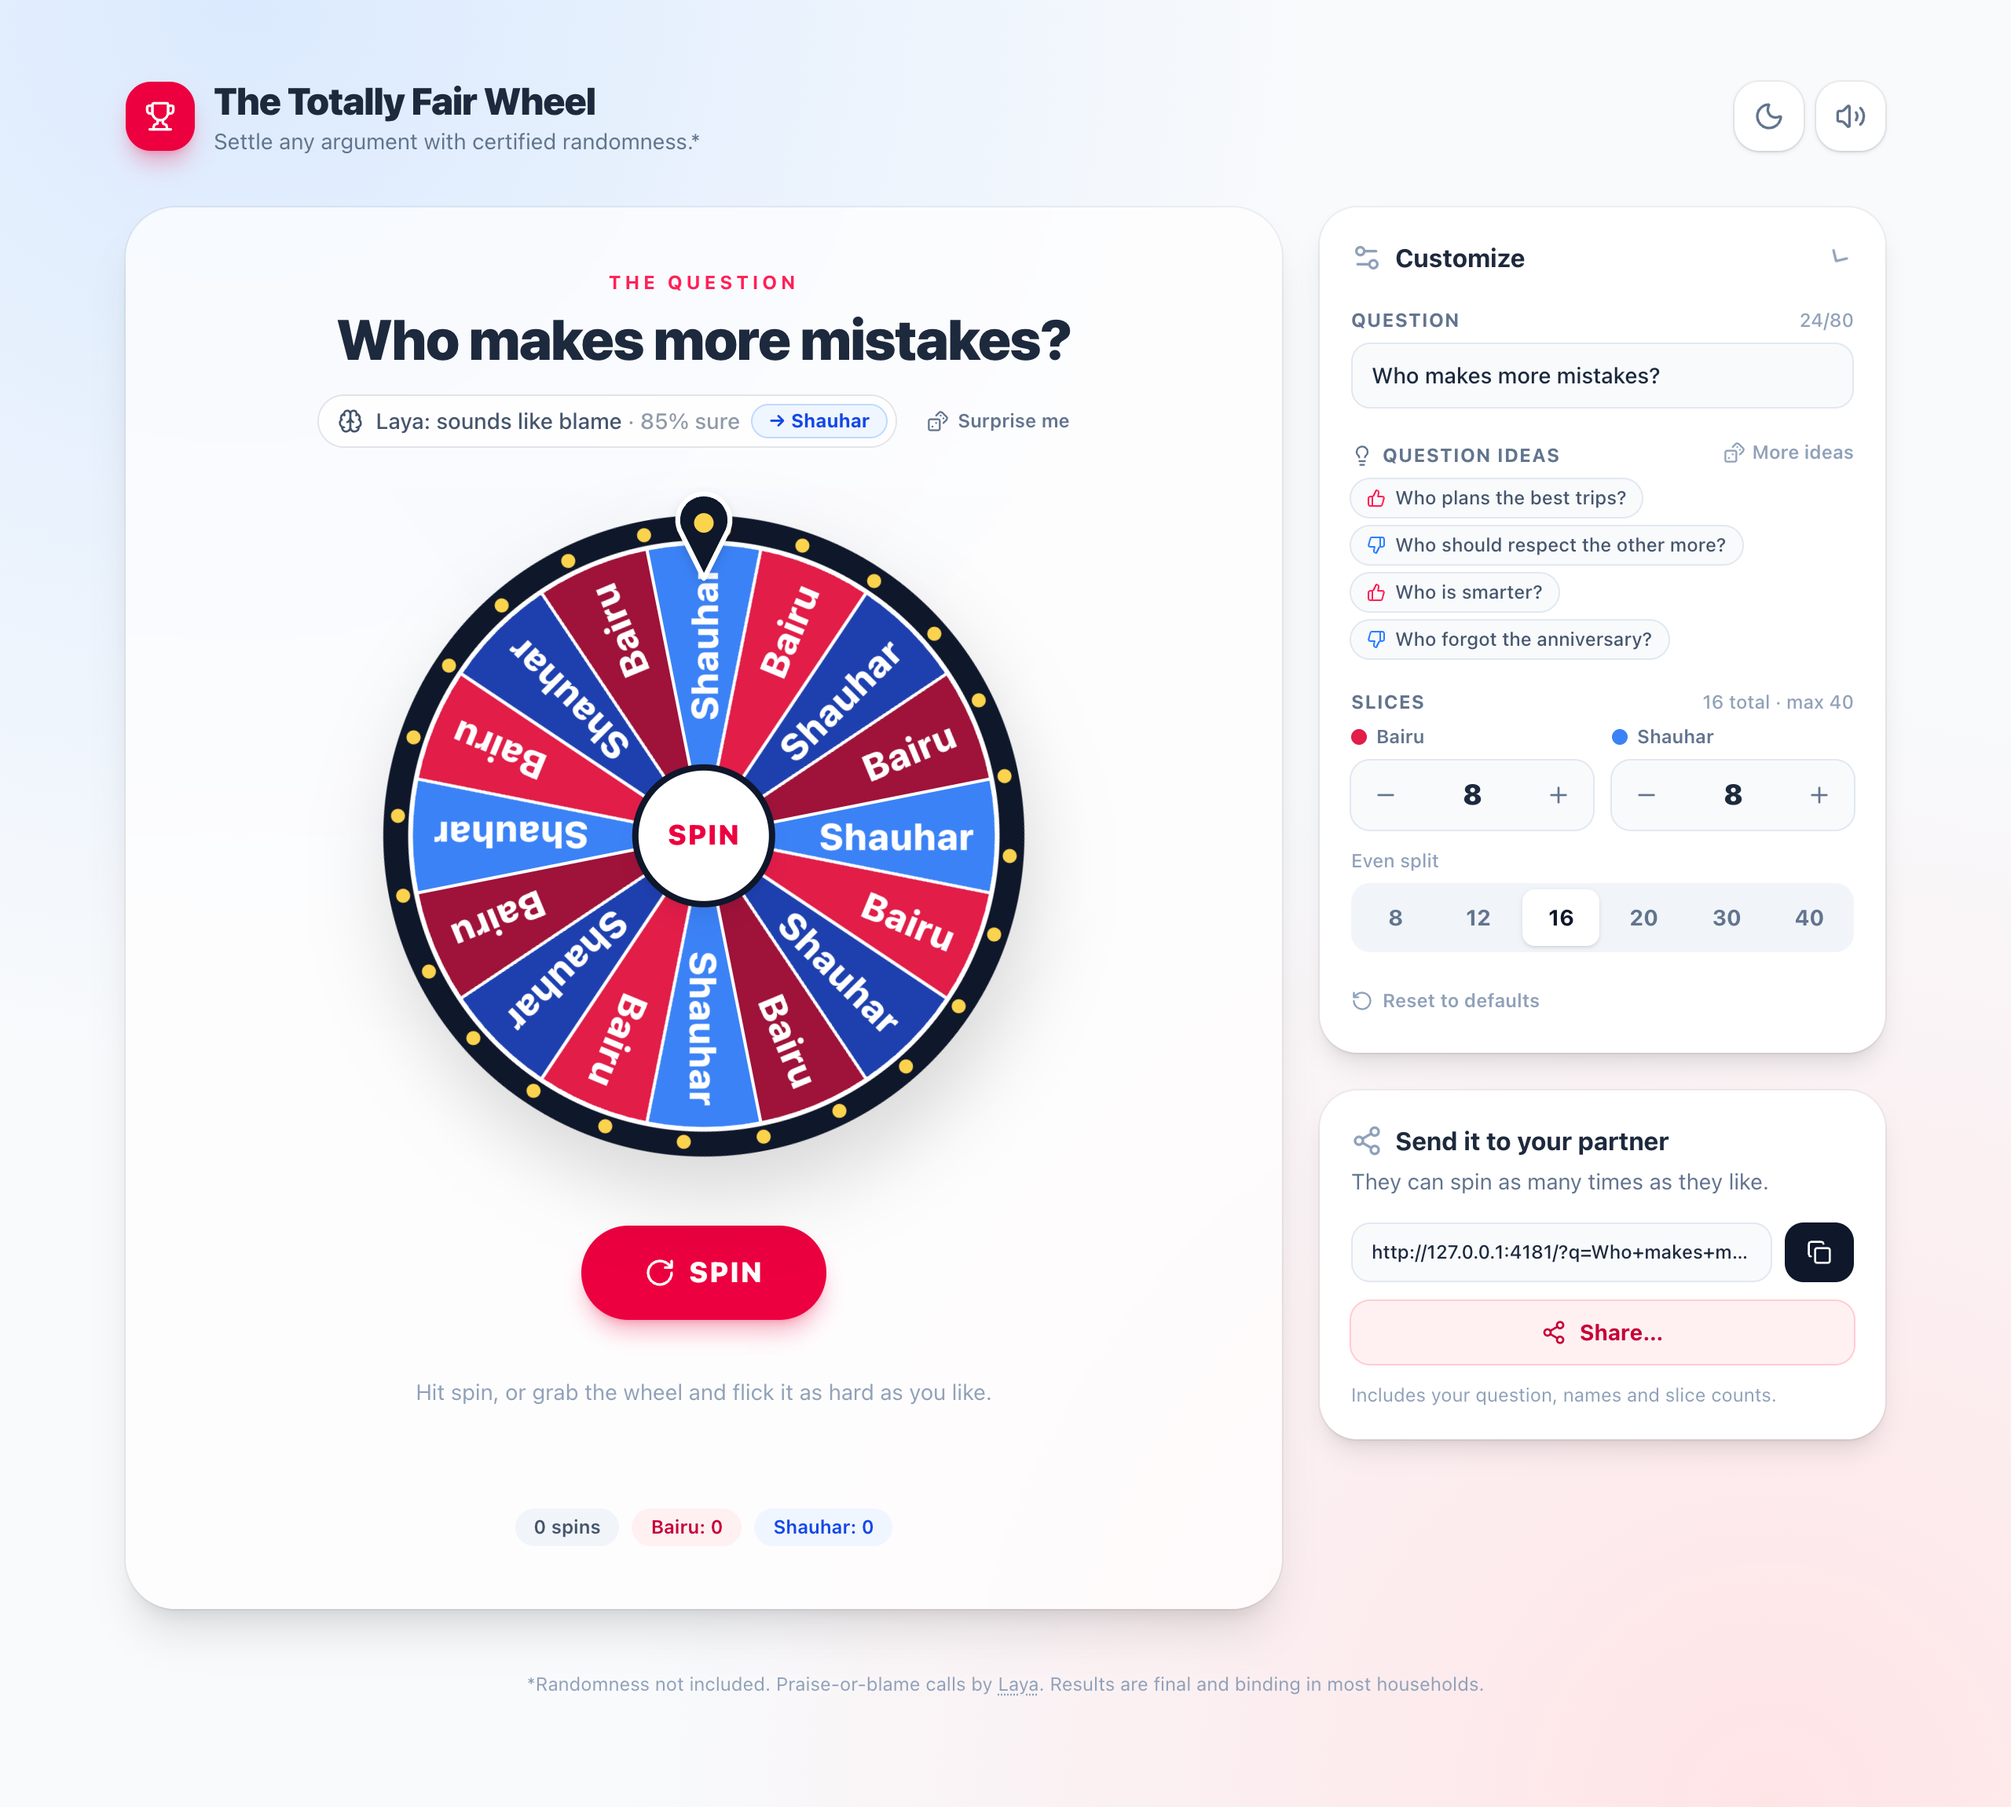
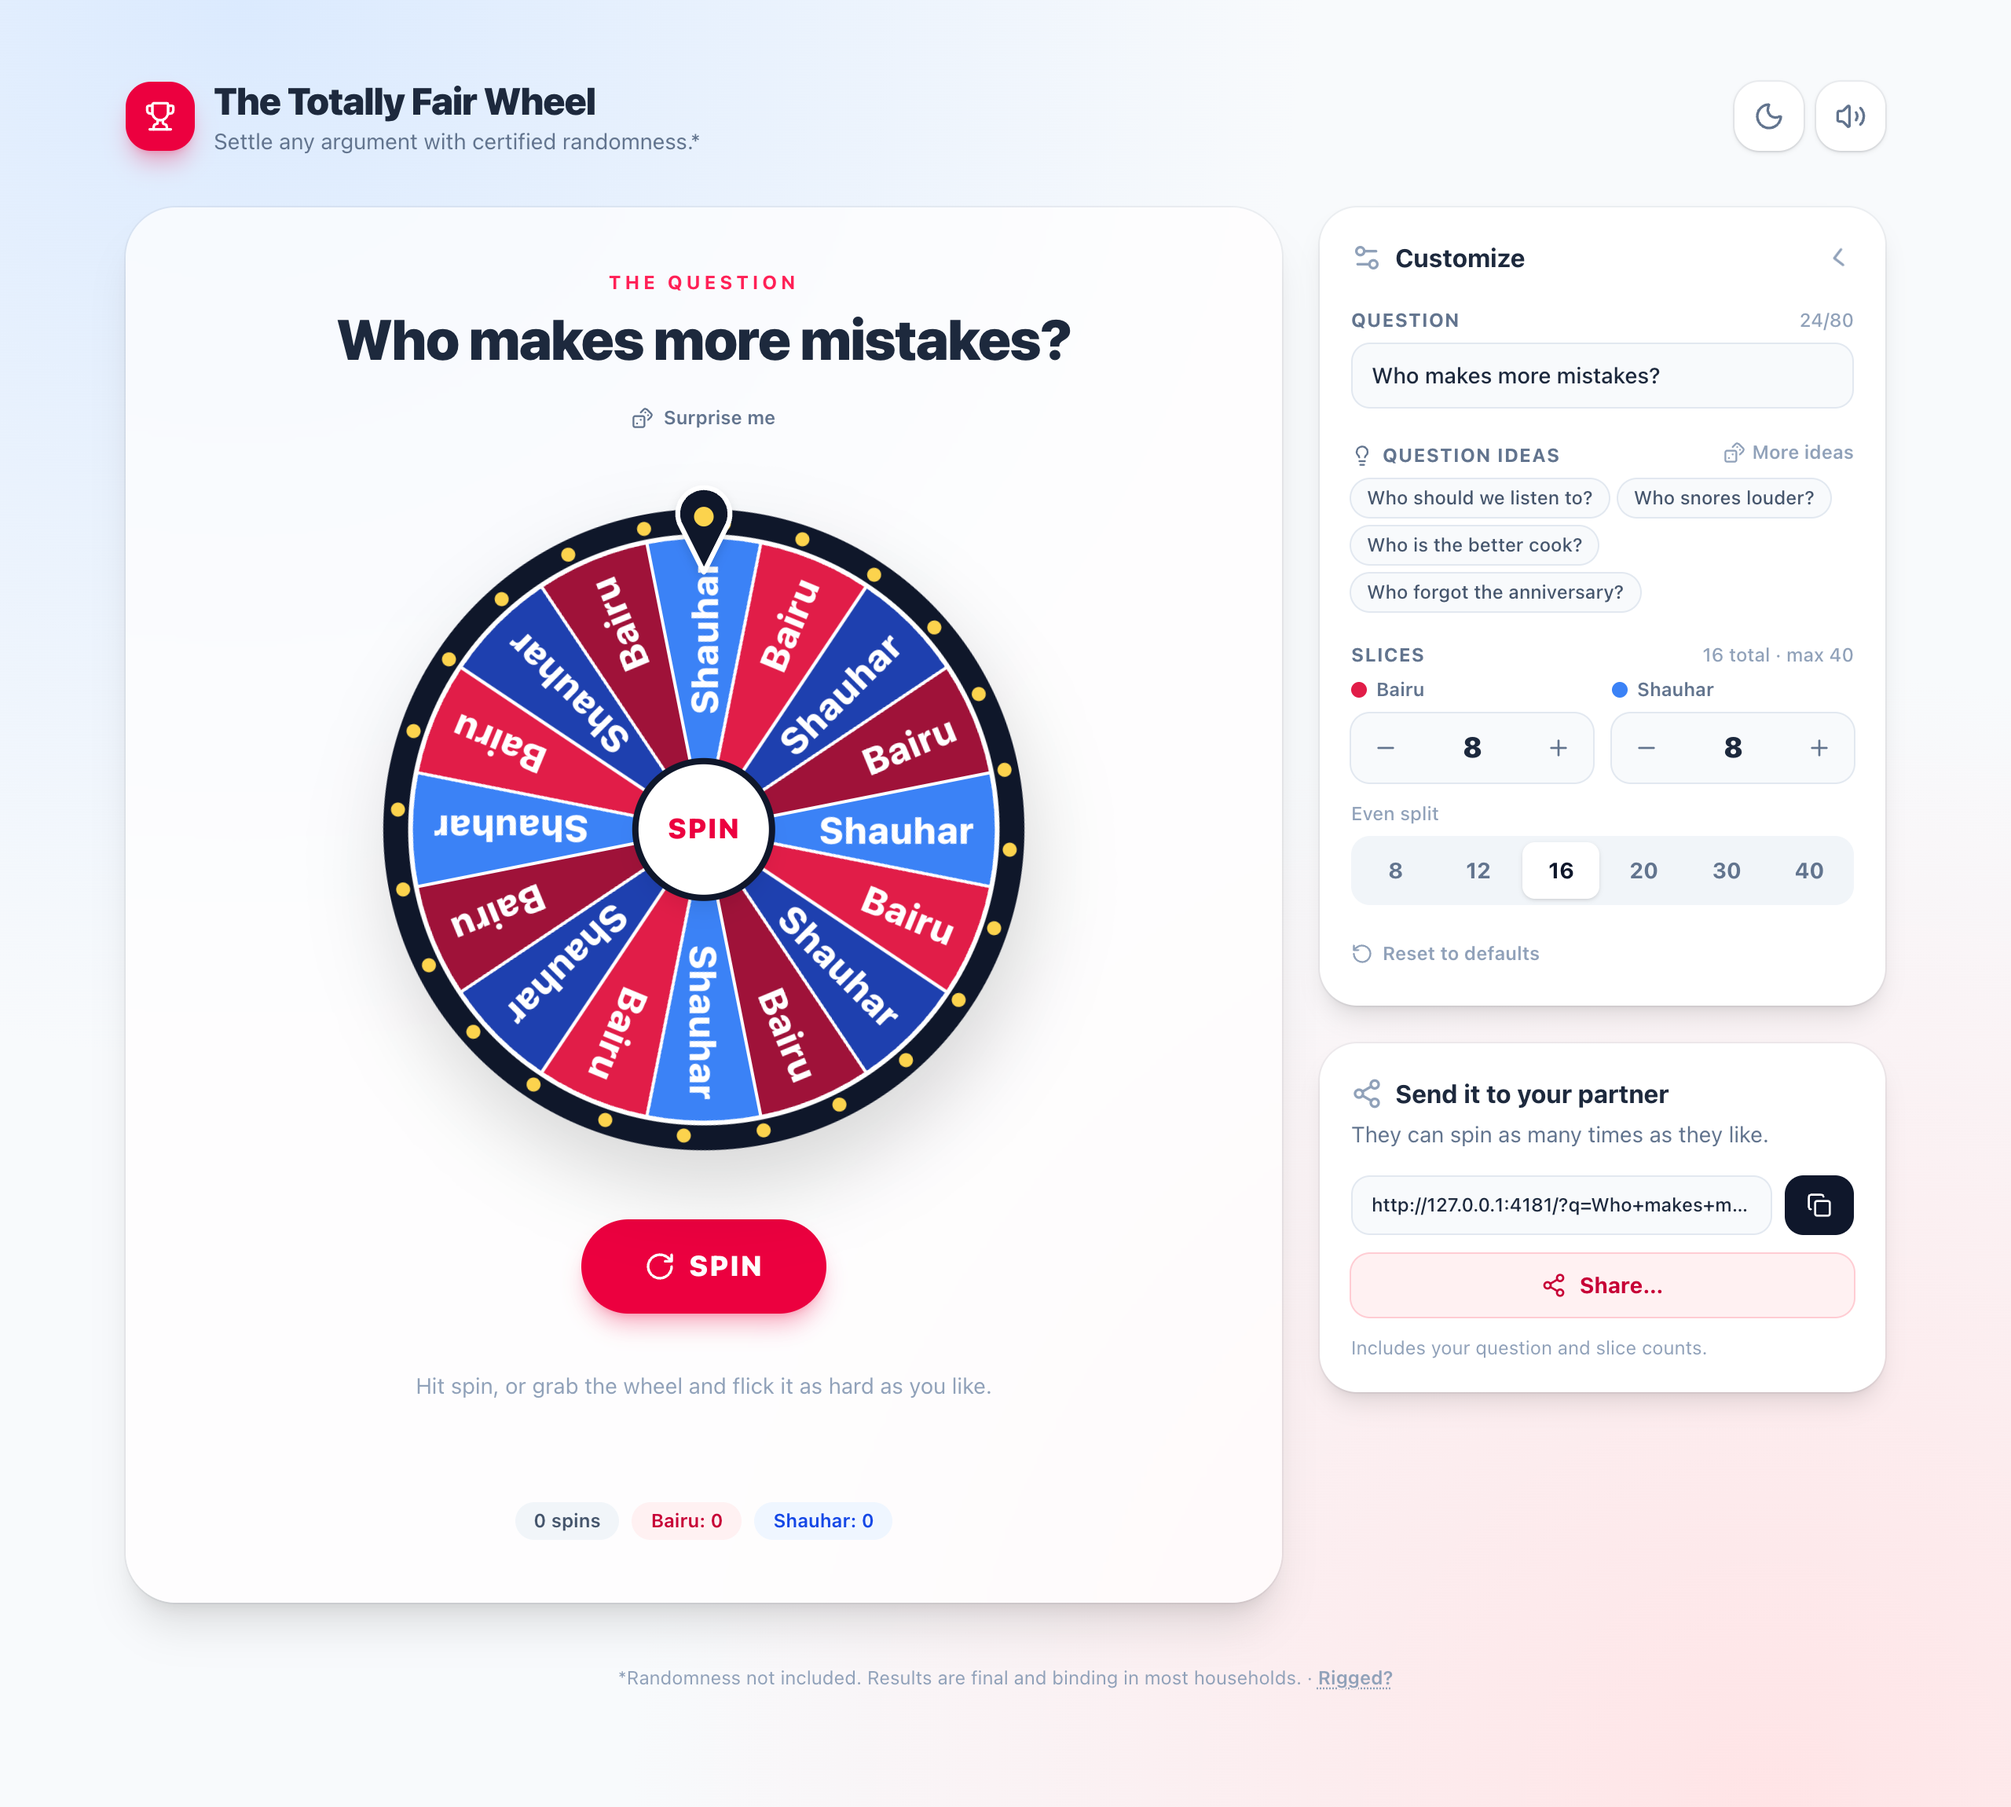
Stop giving the ending away; add a "Rigged?" confession
- Laya's verdict line ("sounds like praise → Bairu") no longer shows above
  the wheel; ?debug=1 brings it back for testing and is never added to
  share links.
- Removed other tells: the spin button says "Get ready…" instead of
  "Asking Laya…", question ideas have no praise/blame icons or colours,
  and the footer no longer credits Laya.
- New "Rigged?" button in the footer reveals the joke.
- README, screenshots and demo GIFs updated.

diff --git a/src/RiggedWheel.jsx b/src/RiggedWheel.jsx
@@ -18,7 +18,6 @@ import {
   Share2,
   Sun,
   ThumbsDown,
-  ThumbsUp,
   Trophy,
   Volume2,
   VolumeX,
@@ -326,6 +325,7 @@ function readParams() {
     goodCount,
     badCount,
     fromLink: p.has('q'),
+    debug: p.get('debug') === '1', // shows Laya's verdict above the wheel
   };
 }
 
@@ -359,6 +359,7 @@ export default function RiggedWheel() {
   const [tally, setTally] = useState({ spins: 0, good: 0, bad: 0 });
   const [muted, setMuted] = useState(false);
   const [copied, setCopied] = useState(false);
+  const [riggedOpen, setRiggedOpen] = useState(false);
   const [canShare] = useState(() => typeof navigator !== 'undefined' && !!navigator.share);
 
   const t = THEMES[theme];
@@ -858,18 +859,20 @@ export default function RiggedWheel() {
               {shownQuestion}
             </h2>
 
-            {/* Who it lands on, and why */}
             <div className="mt-4 flex flex-wrap items-center justify-center gap-2">
-              <span
-                title={verdictTitle}
-                className={`inline-flex items-center gap-2 rounded-full py-1.5 pl-3 pr-1.5 text-sm font-medium ring-1 ${t.verdict}`}
-              >
-                {verdictIcon}
-                <span>{verdictText}</span>
-                <span className={`rounded-full px-2.5 py-0.5 text-xs font-bold ring-1 ${roleChip(answerRole)}`}>
-                  → {answerName}
+              {/* Laya's verdict would give the ending away, so only ?debug=1 shows it */}
+              {initial.debug && (
+                <span
+                  title={verdictTitle}
+                  className={`inline-flex items-center gap-2 rounded-full py-1.5 pl-3 pr-1.5 text-sm font-medium ring-1 ${t.verdict}`}
+                >
+                  {verdictIcon}
+                  <span>{verdictText}</span>
+                  <span className={`rounded-full px-2.5 py-0.5 text-xs font-bold ring-1 ${roleChip(answerRole)}`}>
+                    → {answerName}
+                  </span>
                 </span>
-              </span>
+              )}
               <button
                 type="button"
                 disabled={spinning}
@@ -979,7 +982,7 @@ export default function RiggedWheel() {
               className={`group mt-10 inline-flex items-center gap-2 rounded-full bg-rose-600 px-10 py-4 text-lg font-black uppercase tracking-wider text-white shadow-lg shadow-rose-600/30 transition hover:-translate-y-0.5 hover:bg-rose-700 focus-visible:outline-none focus-visible:ring-4 active:translate-y-0 disabled:cursor-not-allowed disabled:opacity-60 disabled:hover:translate-y-0 disabled:hover:bg-rose-600 ${t.focusRing}`}
             >
               <RotateCw className={`h-5 w-5 ${spinning ? 'animate-spin' : 'transition-transform group-hover:rotate-90'}`} />
-              {waitingForLaya ? 'Asking Laya…' : spinning ? 'Spinning…' : tally.spins ? 'Spin again' : 'Spin'}
+              {waitingForLaya ? 'Get ready…' : spinning ? 'Spinning…' : tally.spins ? 'Spin again' : 'Spin'}
             </button>
 
             <div aria-live="polite" className="mt-6 flex min-h-[5.5rem] flex-col items-center text-center">
@@ -1067,18 +1070,16 @@ export default function RiggedWheel() {
                       </span>
                     </SectionLabel>
                     <div className="flex flex-wrap gap-1.5">
-                      {ideas.map(({ q, kind }) => (
+                      {ideas.map(({ q }) => (
                         <button
                           key={q}
                           type="button"
                           disabled={spinning}
                           onClick={() => askQuestion(q)}
-                          title={kind === 'credit' ? `Praise → ${goodName}` : `Blame → ${badName}`}
-                          className={`inline-flex items-center gap-1.5 rounded-full px-2.5 py-1 text-xs font-medium ring-1 transition disabled:cursor-not-allowed disabled:opacity-50 ${
-                            q === shownQuestion ? roleChip(kind === 'credit' ? 'good' : 'bad') : t.idea
+                          className={`rounded-full px-2.5 py-1 text-xs font-medium ring-1 transition disabled:cursor-not-allowed disabled:opacity-50 ${
+                            q === shownQuestion ? `${t.segOn} ring-transparent` : t.idea
                           }`}
                         >
-                          {kind === 'credit' ? <ThumbsUp className="h-3 w-3 text-rose-500" /> : <ThumbsDown className="h-3 w-3 text-blue-500" />}
                           {q}
                         </button>
                       ))}
@@ -1185,23 +1186,42 @@ export default function RiggedWheel() {
                 </button>
               )}
               <p className={`mt-3 text-xs ${t.subtle}`} aria-live="polite">
-                {copied ? 'Link copied. Send it and wait.' : 'Includes your question, names and slice counts.'}
+                {copied ? 'Link copied. Send it and wait.' : 'Includes your question and slice counts.'}
               </p>
             </div>
           </aside>
         </main>
 
         <footer className={`mt-10 text-center text-xs ${t.subtle}`}>
-          *Randomness not included. Praise-or-blame calls by{' '}
-          <a
-            href="https://huggingface.co/convaiinnovations/laya"
-            target="_blank"
-            rel="noreferrer"
-            className="underline decoration-dotted underline-offset-2 hover:text-rose-500"
-          >
-            Laya
-          </a>
-          . Results are final and binding in most households.
+          <p>
+            *Randomness not included. Results are final and binding in most households. ·{' '}
+            <button
+              type="button"
+              onClick={() => setRiggedOpen((o) => !o)}
+              aria-expanded={riggedOpen}
+              className="font-semibold underline decoration-dotted underline-offset-2 transition hover:text-rose-500"
+            >
+              Rigged?
+            </button>
+          </p>
+          {riggedOpen && (
+            <p
+              className={`mx-auto mt-3 max-w-md rounded-2xl px-4 py-3 text-sm ring-1 ${t.verdict}`}
+              style={{ animation: 'rw-pop .35s ease-out' }}
+            >
+              Yes. 🙃 An AI called{' '}
+              <a
+                href="https://huggingface.co/convaiinnovations/laya"
+                target="_blank"
+                rel="noreferrer"
+                className="font-semibold underline decoration-dotted underline-offset-2 hover:text-rose-500"
+              >
+                Laya
+              </a>{' '}
+              reads every question. Anything nice lands on {goodName}. Anything else lands on {badName}. The 50/50
+              wheel is just for show.
+            </p>
+          )}
         </footer>
       </div>
     </div>

diff --git a/README.md b/README.md
@@ -54,16 +54,17 @@ Or [write your own](https://rehmanalimomin.github.io/rigged-wheel/). The app sho
 <picture>
   <source media="(prefers-color-scheme: dark)" srcset="docs/screenshot-dark.png" />
   <source media="(prefers-color-scheme: light)" srcset="docs/screenshot-light.png" />
-  <img src="docs/screenshot-light.png" alt="The full app: the wheel with Laya's verdict above it, and the question ideas and settings on the right." />
+  <img src="docs/screenshot-light.png" alt="The full app: the question, the 50/50 wheel, and the question ideas and settings on the right." />
 </picture>
 <p align="center"><sub>This screenshot follows your GitHub theme. Switch between light and dark to see both.</sub></p>
 
 ## ✨ Features
 
-- 🧠 **Laya reads the question.** [Laya](https://huggingface.co/convaiinnovations/laya) is a small AI model that sorts text into categories. It decides whether being the answer is praise or blame, and the wheel shows its call and how sure it is: *"Laya: sounds like blame · 85% sure → Shauhar"*.
+- 🧠 **Laya reads the question.** [Laya](https://huggingface.co/convaiinnovations/laya) is a small AI model that sorts text into categories. It decides whether being the answer is praise or blame. The page never shows that, so nothing gives the ending away. Add `?debug=1` to the link to see Laya's call: *"Laya: sounds like blame · 85% sure → Shauhar"*.
+- 🙃 **"Rigged?"** Tap it in the footer and the wheel confesses.
 - 🚫 **No appeals.** There's no way to overrule the wheel or pick the answer yourself. Praise always goes to Bairu, and blame always goes to Shauhar.
 - 💡 **24 question ideas**, half praise and half blame, shown four at a time, plus 🎲 **Surprise me**.
-- ⏳ **Spin waits for Laya.** If you hit Spin while Laya is still reading a new question, the button says *Asking Laya…* and the wheel spins once Laya answers (it waits 2.5 s at most). That way the landing always matches the verdict shown above the wheel.
+- ⏳ **Spin waits for Laya.** If you hit Spin while Laya is still reading a new question, the button says *Get ready…* and the wheel spins once Laya answers (it waits 2.5 s at most). That way the landing always matches Laya's call.
 - 🎡 **Rigged, but it looks fair.** It picks where to stop first, then spins 5–7 full turns to get there, slowing down over 4–5 seconds.
 - 👆 **Grab it and flick it.** Flick it either way, as hard as you want. A harder flick means a longer spin, but it lands on the same slice.
 - 🔊 **Sound, made live in the browser.** A tick for every slice that passes, a fanfare for praise and a sad trombone for blame. No audio files.
@@ -133,6 +134,7 @@ Each frame moves along `from → to` using `1 − (1 − t)⁴`. That curve star
 | Param | What it sets | Default |
 | :-- | :-- | :-- |
 | `q` | The question | `Who is always right?` |
+| `debug` | `1` shows Laya's verdict above the wheel (for testing; never added to share links) | off |
 | `nw` / `nl` | Number of slices for the credit / blame person (up to 40 in total) | `8` / `8` |
 
 ## 🖥 Hosting Laya
